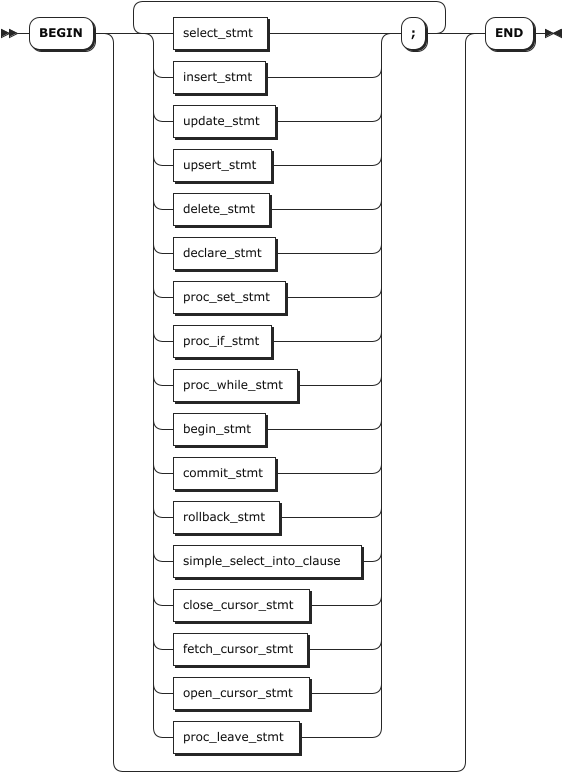
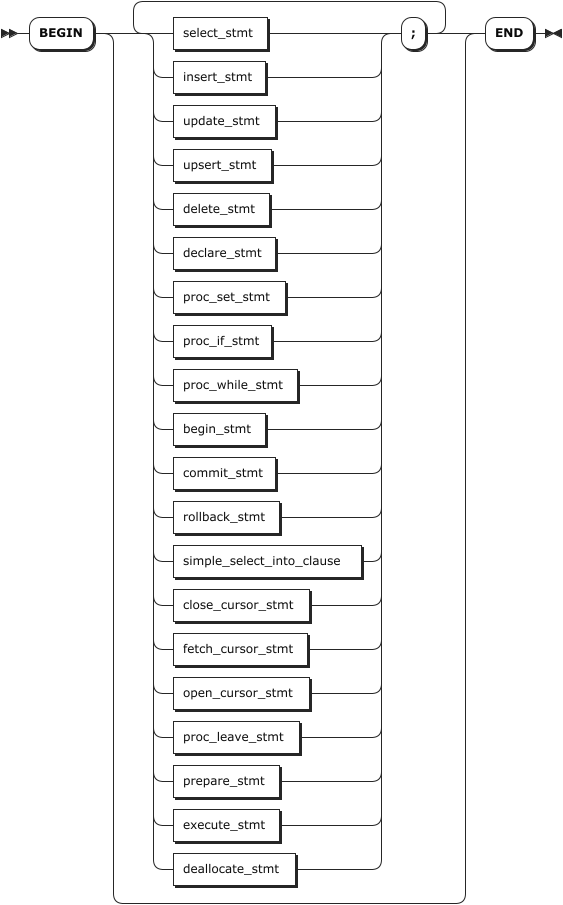
[KWDB 3.1.0]--PROCEDURE supports prepare, deallocate, execute statements

Changed region(s): [[0.0, 0.0, 0.8455, 1.0], [0.6643, 0.0, 1.0, 0.0931], [0.2718, 0.3105, 0.302, 0.3415]]

diff --git a/db-administration/db-object-mgmt/relational-db/procedure-mgmt-relational.md b/db-administration/db-object-mgmt/relational-db/procedure-mgmt-relational.md
@@ -19,6 +19,7 @@ KWDB 关系引擎支持创建、修改、查看、删除、执行存储过程。
 - `LEAVE`
 - 事务语句
 - 特殊函数（`ROW_COUNT()`）
+- `PREPARE`、`EXECUTE`、`DEALLOCATE`
 
 ::: warning 说明
 
@@ -58,7 +59,7 @@ KWDB 关系引擎支持创建、修改、查看、删除、执行存储过程。
 | `upsert_stmt`| 更新插入语句，用于更新、插入数据。 |
 | `delete_stmt`| 删除语句，用于删除目标表中的行数据，格式为 `DELETE FROM .... RETURNING target_list INTO select_into_targets`。|
 | `declare_stmt`| 用于声明自定义变量、处理程序以及游标。有关详细信息，参见[声明](../../../sql-reference/other-sql-statements/declare-sql.md)语句。|
-| `proc_set_stmt` | 用于设置自定义变量，格式为 `SET var_name = a_expr`。<br>- `var_name`：自定义变量的名称。<br>- `a_expr`：自定义变量赋值的表达式。|
+| `proc_set_stmt` | 用于设置自定义变量，格式为 `SET var_name = a_expr`。其中，`var_name` 表示自定义变量的名称，`a_expr` 表示自定义变量赋值的表达式，支持正常的自定义变量取值和存储过程中定义的临时变量（`DECLARE` 语句声明的变量）。<br > 在存储过程中设置的自定义变量仅对当前会话有效，会话结束后自动失效。<br > 在存储过程中设置的自定义变量，在调用存储过程后，用户仍可在外部会话中访问和修改该自定义变量。<br > 在存储过程中设置自定义变量的类型后，不支持修改自定义变量的类型。后续赋值必须与初始类型一致，否则系统报错。<br > 如果存储过程外部设置了自定义变量，在创建存储过程中设置自定义变量时，系统检查存储过程外部是否已存在具有相同名称的自定义变量。如果存在且类型一致，则成功设置自定义变量。否则，系统将报错。<br >**说明** <br > 在存储过程内设置的自定义变量值不受 `COMMIT`、`ROLLBACK` 事务语句的影响。|
 | `proc_if_stmt` | `IF` 条件语句，用于根据给定的条件执行不同的 SQL 语句块，格式为 `IF a_expr THEN proc_stmt_list opt_stmt_elsifs opt_stmt_else ENDIF`。<br>- `a_expr`：`IF` 语句的条件表达式，该表达式必须是返回布尔值的表达式。<br>- `proc_stmt_list`：满足条件后需要执行的语句。支持的语句与 `CREATE PROCEDURE` 语句支持的语句相同。 <br>- `opt_stmt_elsifs`：可选项，`IF` 语句的其他条件分支。 <br>- `opt_stmt_else`：可选项，`IF` 语句的 `ELSE` 条件分支。|
 | `proc_while_stmt` | `WHILE` 循环语句，用于在指定条件为真时重复执行一段代码，格式为 `opt_loop_label WHILE a_expr DO proc_stmt_list ENDWHILE opt_label`。<br>- `opt_loop_label`：`WHILE` 循环语句的标签，格式为 `LABEL label_name：`。 <br>-`a_expr`：`WHILE` 循环语句的条件判断表达式。 <br>-`proc_stmt_list`：满足条件后需要执行的语句。支持的语句与 `CREATE PROCEDURE` 语句支持的语句相同。 <br>- `opt_label`：`WHILE` 循环语句的标签，与 `opt_loop_label` 参数成对出现，格式为 `label_name`。 |
 | `begin_stmt` | 启动事务语句。 |
@@ -70,58 +71,112 @@ KWDB 关系引擎支持创建、修改、查看、删除、执行存储过程。
 | `fetch_cursor_stmt` | 获取游标语句。有关详细信息，参见[获取游标](../../../sql-reference/other-sql-statements/cursor-sql.md#获取游标)。 |
 | `close_cursor_stmt` | 关闭游标语句。有关详细信息，参见[关闭游标](../../../sql-reference/other-sql-statements/cursor-sql.md#关闭游标)。 |
 | `proc_leave_stmt`| 在使用 `LABEL` 关键字为存储过程体或 `WHILE` 语句定义标签时，可以使用 `LEAVE` 语句跳出存储过程体或 `WHILE` 循环，格式为 `LEAVE label_name`。 |
+| `prepare_stmt` | 预处理语句，格式为 `PREPARE stmt_name AS stmt_sql`。预处理语句名称在当前会话中必须全局唯一。在存储过程中创建预处理语句时，若与已存在的预处理语句重名，系统将报错。在存储过程中创建的预处理语句仅对当前会话有效，会话结束后自动清理。<br > 在存储过程中，预处理语句定义的 SQL 语句必须是存储过程支持的单个完整 SQL 语句。SQL 语句的参数占位符仅支持美元符号（`$`）且仅能替换 SQL 中的值（如 `WHERE id = $1`），不能替换表名、列名、关键字等标识符。<br > 在存储过程中，预处理语句支持 `SELECT`、`INSERT`、`UPDATE`、`UPSERT`、`DELETE` 语句。<br > 在存储过程中，预处理语句不支持事务语句（`BEGIN`、`START TRANSACTION`、`COMMIT`、`ROLLBACK`）、会话控制语句（`USE`）、存储过程的流程控制语句、存储过程相关的语句（`CREATE PROCEDURE`、`ALTER PROCEDURE`、`DROP PROCEDURE`、`CALL PROCEDURE`）、`SELECT INTO` 语句、DDL 语句。<br > 存储过程内部可以使用在存储过程外部定义的预处理语句。反之，如果系统未主动释放存储过程中创建的预处理语句，在存储过程外部也可以使用该预处理语句。<br >**说明** <br >- 不支持预处理语句中嵌套另一个预处理语句。<br >- 预处理语句中不能包含存储过程中定义的临时变量（`DECLARE` 语句声明的变量）和自定义变量。<br >- 运行预处理语句后，如果未显式执行 `DEALLOCATE PREPARE` 语句，预处理对象会保留在当前会话中。此时，如果在存储过程外部创建具有相同名称的预处理对象，系统会报错。 |
+| `execute_stmt` | 执行预处理语句，格式为 `EXECUTE stmt_name para_value`。<br >**说明** <br > 执行预处理语句中不能包含存储过程中定义的临时变量（`DECLARE` 语句声明的变量）或传入参数。用户需要通过 `SET @var = variable` 语句提前进行转换。 |
+| `deallocate_stmt` | 释放预处理语句，格式为 `DEALLOCATE PREPARE stmt`。如需删除所有的预处理语句，使用 `DEALLOCATE ALL` 或者 `DEALLOCATE PREPARE ALL` 语句。|
 
 ### 语法示例
 
-以下示例创建一个名为 `test` 的存储过程。
+- 创建存储过程。
 
-```sql
--- 设置分隔符。
-delimiter \\
+    以下示例创建一个名为 `test` 的存储过程。
 
--- 创建存储过程。
-create procedure test() 
-label test:
-begin 
-        declare a int;
-        declare b int;
-        declare err int;
-        declare exit HANDLER FOR NOT FOUND,SQLEXCEPTION
-        BEGIN
-          SET err = -1;
-          SELECT a,b;
-          ROLLBACK;
-        ENDHANDLER;
-        
-        START TRANSACTION;
-        set a = 10;
-        select a, b from t1;
-        update t1 set a =  a + 1 where b > 0;
-        insert into t1 values (a, b);
-        label my_loop:
-        WHILE b <= 10 DO 
-                declare d int;
-                set d = b + 2;
-                if d > 9 then 
-                        select * from t1; 
-                        leave my_loop;
-                elsif b > 5 then 
-                        select * from t2; 
-                endif;
-                set b = b + 1; 
-        ENDWHILE my_loop; 
-        IF err = 0 THEN
-                SELECT a,b;
-        ENDIF;
-        COMMIT;
-end test\\
-delimiter ;
-CREATE PROCEDURE
-```
+    ```sql
+    -- 设置分隔符。
+    delimiter \\
+
+    -- 创建存储过程。
+    create procedure test() 
+    label test:
+    begin 
+            declare a int;
+            declare b int;
+            declare err int;
+            declare exit HANDLER FOR NOT FOUND,SQLEXCEPTION
+            BEGIN
+            SET err = -1;
+            SELECT a,b;
+            ROLLBACK;
+            ENDHANDLER;
+            
+            START TRANSACTION;
+            set a = 10;
+            select a, b from t1;
+            update t1 set a =  a + 1 where b > 0;
+            insert into t1 values (a, b);
+            label my_loop:
+            WHILE b <= 10 DO 
+                    declare d int;
+                    set d = b + 2;
+                    if d > 9 then 
+                            select * from t1; 
+                            leave my_loop;
+                    elsif b > 5 then 
+                            select * from t2; 
+                    endif;
+                    set b = b + 1; 
+            ENDWHILE my_loop; 
+            IF err = 0 THEN
+                    SELECT a,b;
+            ENDIF;
+            COMMIT;
+    end test\\
+    delimiter ;
+    CREATE PROCEDURE
+    ```
+
+- 创建存储过程，并在存储过程中设置自定义变量。
+
+    ```sql
+    -- 设置分隔符。
+    DELIMITER \\
+
+    -- 创建存储过程。
+    CREATE PROCEDURE proc1()
+    BEGIN
+    declare a int;
+    set a = 10;
+    set @b = 1;
+    select @b;
+    
+    set @b = a;
+    select @b;
+    
+    END //
+    CREATE PROCEDURE
+    Time: 60.4819ms
+    ```
+
+- 创建存储过程，并在存储过程中使用 `PREPARE`、`EXECUTE`、`DEALLOCATE` 语句。
+
+    ```sql
+    -- 设置分隔符。
+    DELIMITER \\
+
+    -- 创建存储过程。    
+    CREATE PROCEDURE proc1()
+    BEGIN
+      PREPARE stmt as SELECT 1;
+      EXECUTE stmt;
+      DEALLOCATE PREPARE stmt;
+    END //
+
+    CREATE PROCEDURE
+    Time: 60.4819ms
+    ```
 
 ## 调用存储过程
 
 `CALL` 语句用于调用存储过程。
+
+::: warning 说明
+
+- 如果在创建存储过程时定义了自定义变量，在调用存储过程时，系统检查存储过程外部是否已存在具有相同名称的自定义变量。如果存在且类型一致，系统将成功调用存储过程并用新的自定义变量值覆盖原有值。否则，系统将报错。
+- 如果在创建存储过程时定义了预处理语句，在调用存储过程时，系统检查预处理语句的语法。如果不符合语法，系统将报错。
+- 如果在创建存储过程时定义了执行预处理语句，在调用存储过程时，系统检查执行预处理语句的对象是否存在。如果不存在，系统将报错。
+- 如果在创建存储过程时定义了释放预处理语句，在调用存储过程时，系统检查释放预处理语句的对象是否存在。如果不存在，系统将报错。
+
+:::
 
 ### 前提条件
 

diff --git a/sql-reference/ddl/relational-db/relational-procedure.md b/sql-reference/ddl/relational-db/relational-procedure.md
@@ -20,6 +20,7 @@ KWDB 关系引擎支持创建、修改、查看、删除、执行存储过程。
 - `LEAVE`
 - 事务语句
 - 特殊函数（`ROW_COUNT()`）
+- `PREPARE`、`EXECUTE`、`DEALLOCATE`
 
 ::: warning 说明
 
@@ -84,7 +85,7 @@ KWDB 关系引擎支持创建、修改、查看、删除、执行存储过程。
 | `upsert_stmt`| 更新插入语句，用于更新、插入数据。 |
 | `delete_stmt`| 删除语句，用于删除目标表中的行数据，格式为 `DELETE FROM .... RETURNING target_list INTO select_into_targets`。|
 | `declare_stmt`| 用于声明自定义变量、处理程序以及游标。有关详细信息，参见[声明](../../other-sql-statements/declare-sql.md)语句。|
-| `proc_set_stmt` | 用于设置自定义变量，格式为 `SET var_name = a_expr`。<br>- `var_name`：自定义变量的名称。<br>- `a_expr`：自定义变量赋值的表达式。|
+| `proc_set_stmt` | 用于设置自定义变量，格式为 `SET var_name = a_expr`。其中，`var_name` 表示自定义变量的名称，`a_expr` 表示自定义变量赋值的表达式，支持正常的自定义变量取值和存储过程中定义的临时变量（`DECLARE` 语句声明的变量）。<br > 在存储过程中设置的自定义变量仅对当前会话有效，会话结束后自动失效。<br > 在存储过程中设置的自定义变量，在调用存储过程后，用户仍可在外部会话中访问和修改该自定义变量。<br > 在存储过程中设置自定义变量的类型后，不支持修改自定义变量的类型。后续赋值必须与初始类型一致，否则系统报错。<br > 如果存储过程外部设置了自定义变量，在创建存储过程中设置自定义变量时，系统检查存储过程外部是否已存在具有相同名称的自定义变量。如果存在且类型一致，则成功设置自定义变量。否则，系统将报错。<br >**说明** <br > 在存储过程内设置的自定义变量值不受 `COMMIT`、`ROLLBACK` 事务语句的影响。|
 | `proc_if_stmt` | `IF` 条件语句，用于根据给定的条件执行不同的 SQL 语句块，格式为 `IF a_expr THEN proc_stmt_list opt_stmt_elsifs opt_stmt_else ENDIF`。<br>- `a_expr`：`IF` 语句的条件表达式，该表达式必须是返回布尔值的表达式。<br>- `proc_stmt_list`：满足条件后需要执行的语句。支持的语句与 `CREATE PROCEDURE` 语句支持的语句相同。 <br>- `opt_stmt_elsifs`：可选项，`IF` 语句的其他条件分支。 <br>- `opt_stmt_else`：可选项，`IF` 语句的 `ELSE` 条件分支。|
 | `proc_while_stmt` | `WHILE` 循环语句，用于在指定条件为真时重复执行一段代码，格式为 `opt_loop_label WHILE a_expr DO proc_stmt_list ENDWHILE opt_label`。<br>- `opt_loop_label`：`WHILE` 循环语句的标签，格式为 `LABEL label_name：`。 <br>-`a_expr`：`WHILE` 循环语句的条件判断表达式。 <br>-`proc_stmt_list`：满足条件后需要执行的语句。支持的语句与 `CREATE PROCEDURE` 语句支持的语句相同。 <br>- `opt_label`：`WHILE` 循环语句的标签，与 `opt_loop_label` 参数成对出现，格式为 `label_name`。 |
 | `begin_stmt` | 启动事务语句。 |
@@ -96,58 +97,112 @@ KWDB 关系引擎支持创建、修改、查看、删除、执行存储过程。
 | `fetch_cursor_stmt` | 获取游标语句。有关详细信息，参见[获取游标](../../other-sql-statements/cursor-sql.md#获取游标)。 |
 | `close_cursor_stmt` | 关闭游标语句。有关详细信息，参见[关闭游标](../../other-sql-statements/cursor-sql.md#关闭游标)。 |
 | `proc_leave_stmt`| 在使用 `LABEL` 关键字为存储过程体或 `WHILE` 语句定义标签时，可以使用 `LEAVE` 语句跳出存储过程体或 `WHILE` 循环，格式为 `LEAVE label_name`。 |
+| `prepare_stmt` | 预处理语句，格式为 `PREPARE stmt_name AS stmt_sql`。预处理语句名称在当前会话中必须全局唯一。在存储过程中创建预处理语句时，若与已存在的预处理语句重名，系统将报错。在存储过程中创建的预处理语句仅对当前会话有效，会话结束后自动清理。<br > 在存储过程中，预处理语句定义的 SQL 语句必须是存储过程支持的单个完整 SQL 语句。SQL 语句的参数占位符仅支持美元符号（`$`）且仅能替换 SQL 中的值（如 `WHERE id = $1`），不能替换表名、列名、关键字等标识符。<br > 在存储过程中，预处理语句支持 `SELECT`、`INSERT`、`UPDATE`、`UPSERT`、`DELETE` 语句。<br > 在存储过程中，预处理语句不支持事务语句（`BEGIN`、`START TRANSACTION`、`COMMIT`、`ROLLBACK`）、会话控制语句（`USE`）、存储过程的流程控制语句、存储过程相关的语句（`CREATE PROCEDURE`、`ALTER PROCEDURE`、`DROP PROCEDURE`、`CALL PROCEDURE`）、`SELECT INTO` 语句、DDL 语句。<br > 存储过程内部可以使用在存储过程外部定义的预处理语句。反之，如果系统未主动释放存储过程中创建的预处理语句，在存储过程外部也可以使用该预处理语句。<br >**说明** <br >- 不支持预处理语句中嵌套另一个预处理语句。<br >- 预处理语句中不能包含存储过程中定义的临时变量（`DECLARE` 语句声明的变量）和自定义变量。<br >- 运行预处理语句后，如果未显式执行 `DEALLOCATE PREPARE` 语句，预处理对象会保留在当前会话中。此时，如果在存储过程外部创建具有相同名称的预处理对象，系统会报错。 |
+| `execute_stmt` | 执行预处理语句，格式为 `EXECUTE stmt_name para_value`。<br >**说明** <br > 执行预处理语句中不能包含存储过程中定义的临时变量（`DECLARE` 语句声明的变量）或传入参数。用户需要通过 `SET @var = variable` 语句提前进行转换。 |
+| `deallocate_stmt` | 释放预处理语句，格式为 `DEALLOCATE PREPARE stmt`。如需删除所有的预处理语句，使用 `DEALLOCATE ALL` 或者 `DEALLOCATE PREPARE ALL` 语句。|
 
 ### 语法示例
 
-以下示例创建一个名为 `test` 的存储过程。
+- 创建存储过程。
 
-```sql
--- 设置分隔符。
-delimiter \\
+    以下示例创建一个名为 `test` 的存储过程。
 
--- 创建存储过程。
-create procedure test() 
-label test:
-begin 
-        declare a int;
-        declare b int;
-        declare err int;
-        declare exit HANDLER FOR NOT FOUND,SQLEXCEPTION
-        BEGIN
-          SET err = -1;
-          SELECT a,b;
-          ROLLBACK;
-        ENDHANDLER;
-        
-        START TRANSACTION;
-        set a = 10;
-        select a, b from t1;
-        update t1 set a =  a + 1 where b > 0;
-        insert into t1 values (a, b);
-        label my_loop:
-        WHILE b <= 10 DO 
-                declare d int;
-                set d = b + 2;
-                if d > 9 then 
-                        select * from t1; 
-                        leave my_loop;
-                elsif b > 5 then 
-                        select * from t2; 
-                endif;
-                set b = b + 1; 
-        ENDWHILE my_loop; 
-        IF err = 0 THEN
-                SELECT a,b;
-        ENDIF;
-        COMMIT;
-end test\\
-delimiter ;
-CREATE PROCEDURE
-```
+    ```sql
+    -- 设置分隔符。
+    delimiter \\
+
+    -- 创建存储过程。
+    create procedure test() 
+    label test:
+    begin 
+            declare a int;
+            declare b int;
+            declare err int;
+            declare exit HANDLER FOR NOT FOUND,SQLEXCEPTION
+            BEGIN
+            SET err = -1;
+            SELECT a,b;
+            ROLLBACK;
+            ENDHANDLER;
+            
+            START TRANSACTION;
+            set a = 10;
+            select a, b from t1;
+            update t1 set a =  a + 1 where b > 0;
+            insert into t1 values (a, b);
+            label my_loop:
+            WHILE b <= 10 DO 
+                    declare d int;
+                    set d = b + 2;
+                    if d > 9 then 
+                            select * from t1; 
+                            leave my_loop;
+                    elsif b > 5 then 
+                            select * from t2; 
+                    endif;
+                    set b = b + 1; 
+            ENDWHILE my_loop; 
+            IF err = 0 THEN
+                    SELECT a,b;
+            ENDIF;
+            COMMIT;
+    end test\\
+    delimiter ;
+    CREATE PROCEDURE
+    ```
+
+- 创建存储过程，并在存储过程中设置自定义变量。
+
+    ```sql
+    -- 设置分隔符。
+    DELIMITER \\
+
+    -- 创建存储过程。
+    CREATE PROCEDURE proc1()
+    BEGIN
+    declare a int;
+    set a = 10;
+    set @b = 1;
+    select @b;
+    
+    set @b = a;
+    select @b;
+    
+    END //
+    CREATE PROCEDURE
+    Time: 60.4819ms
+    ```
+
+- 创建存储过程，并在存储过程中使用 `PREPARE`、`EXECUTE`、`DEALLOCATE` 语句。
+
+    ```sql
+    -- 设置分隔符。
+    DELIMITER \\
+
+    -- 创建存储过程。    
+    CREATE PROCEDURE proc1()
+    BEGIN
+      PREPARE stmt as SELECT 1;
+      EXECUTE stmt;
+      DEALLOCATE PREPARE stmt;
+    END //
+
+    CREATE PROCEDURE
+    Time: 60.4819ms
+    ```
 
 ## 调用存储过程
 
 `CALL` 语句用于调用存储过程。
+
+::: warning 说明
+
+- 如果在创建存储过程时定义了自定义变量，在调用存储过程时，系统检查存储过程外部是否已存在具有相同名称的自定义变量。如果存在且类型一致，系统将成功调用存储过程并用新的自定义变量值覆盖原有值。否则，系统将报错。
+- 如果在创建存储过程时定义了预处理语句，在调用存储过程时，系统检查预处理语句的语法。如果不符合语法，系统将报错。
+- 如果在创建存储过程时定义了执行预处理语句，在调用存储过程时，系统检查执行预处理语句的对象是否存在。如果不存在，系统将报错。
+- 如果在创建存储过程时定义了释放预处理语句，在调用存储过程时，系统检查释放预处理语句的对象是否存在。如果不存在，系统将报错。
+
+:::
 
 ### 所需权限
 
